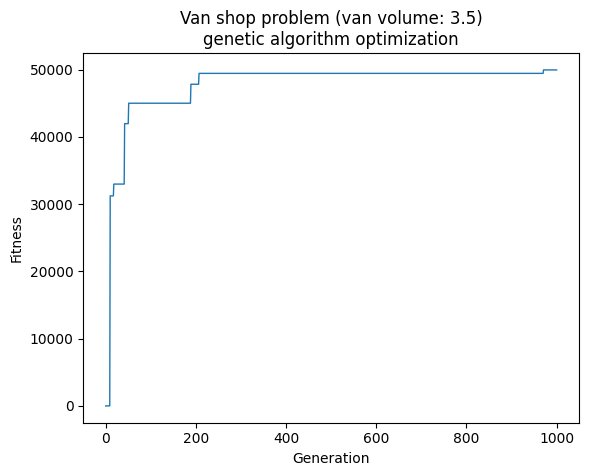
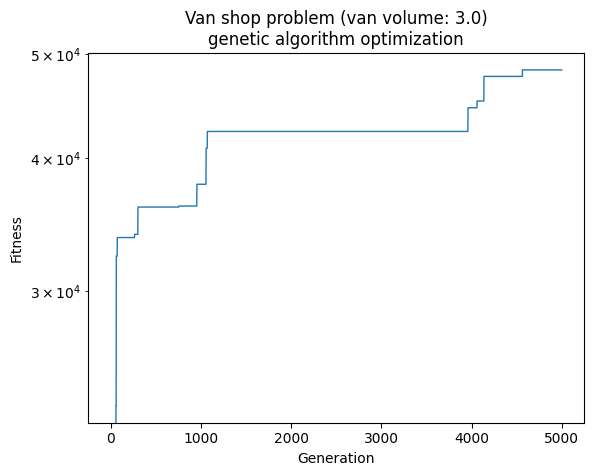
fix plot and formatting

diff --git a/src/van_shop_problem.py b/src/van_shop_problem.py
@@ -114,6 +114,7 @@ def plot_fitness(ga: pygad.GA, output_path: str, van_volume: float):
     )
     ax.set_xlabel("Generation")
     ax.set_ylabel("Fitness")
+    ax.set_yscale("log")
     plt.savefig(output_path, bbox_inches="tight")
     print(f"Saved fitness vs generation figura at {output_path}")
     plt.close()
@@ -136,17 +137,16 @@ def print_best_results(ga: pygad.GA, data_dict: Dict):
 
     df_best_solution = df_best_solution.merge(df, how="left", on="Product")
 
-    # order cols for better display
-    cols = ["Product", "Space", "Price", "Picked", "Quantity"]
-    df_best_solution = df_best_solution[cols]
-    
+    total_space = (df_best_solution["Space"] * df_best_solution["Picked"]).sum()
+    total_price = (df_best_solution["Price"] * df_best_solution["Picked"]).sum()
+
     print("Best solution:")
-    print(f"Predicted solution occupied space: {(df_best_solution['Space'] * df_best_solution['Picked']).sum():.3f}")
-    print(f"Predicted total value: {(df_best_solution['Price'] * df_best_solution['Picked']).sum():.3f}")
-   
-    
+    print(f"Predicted solution occupied space: {total_space:.3f}")
+    print(f"Predicted total value: {total_price:.3f}")
+
     print(f"Predicted output based on the best solution:")
     print(df_best_solution[["Product", "Picked"]])
+
 
 def render_results(ga: pygad.GA, config_dict: Dict, data_dict: Dict):
     plot_fitness(ga, config_dict["output_img"], config_dict["van_volume"])
